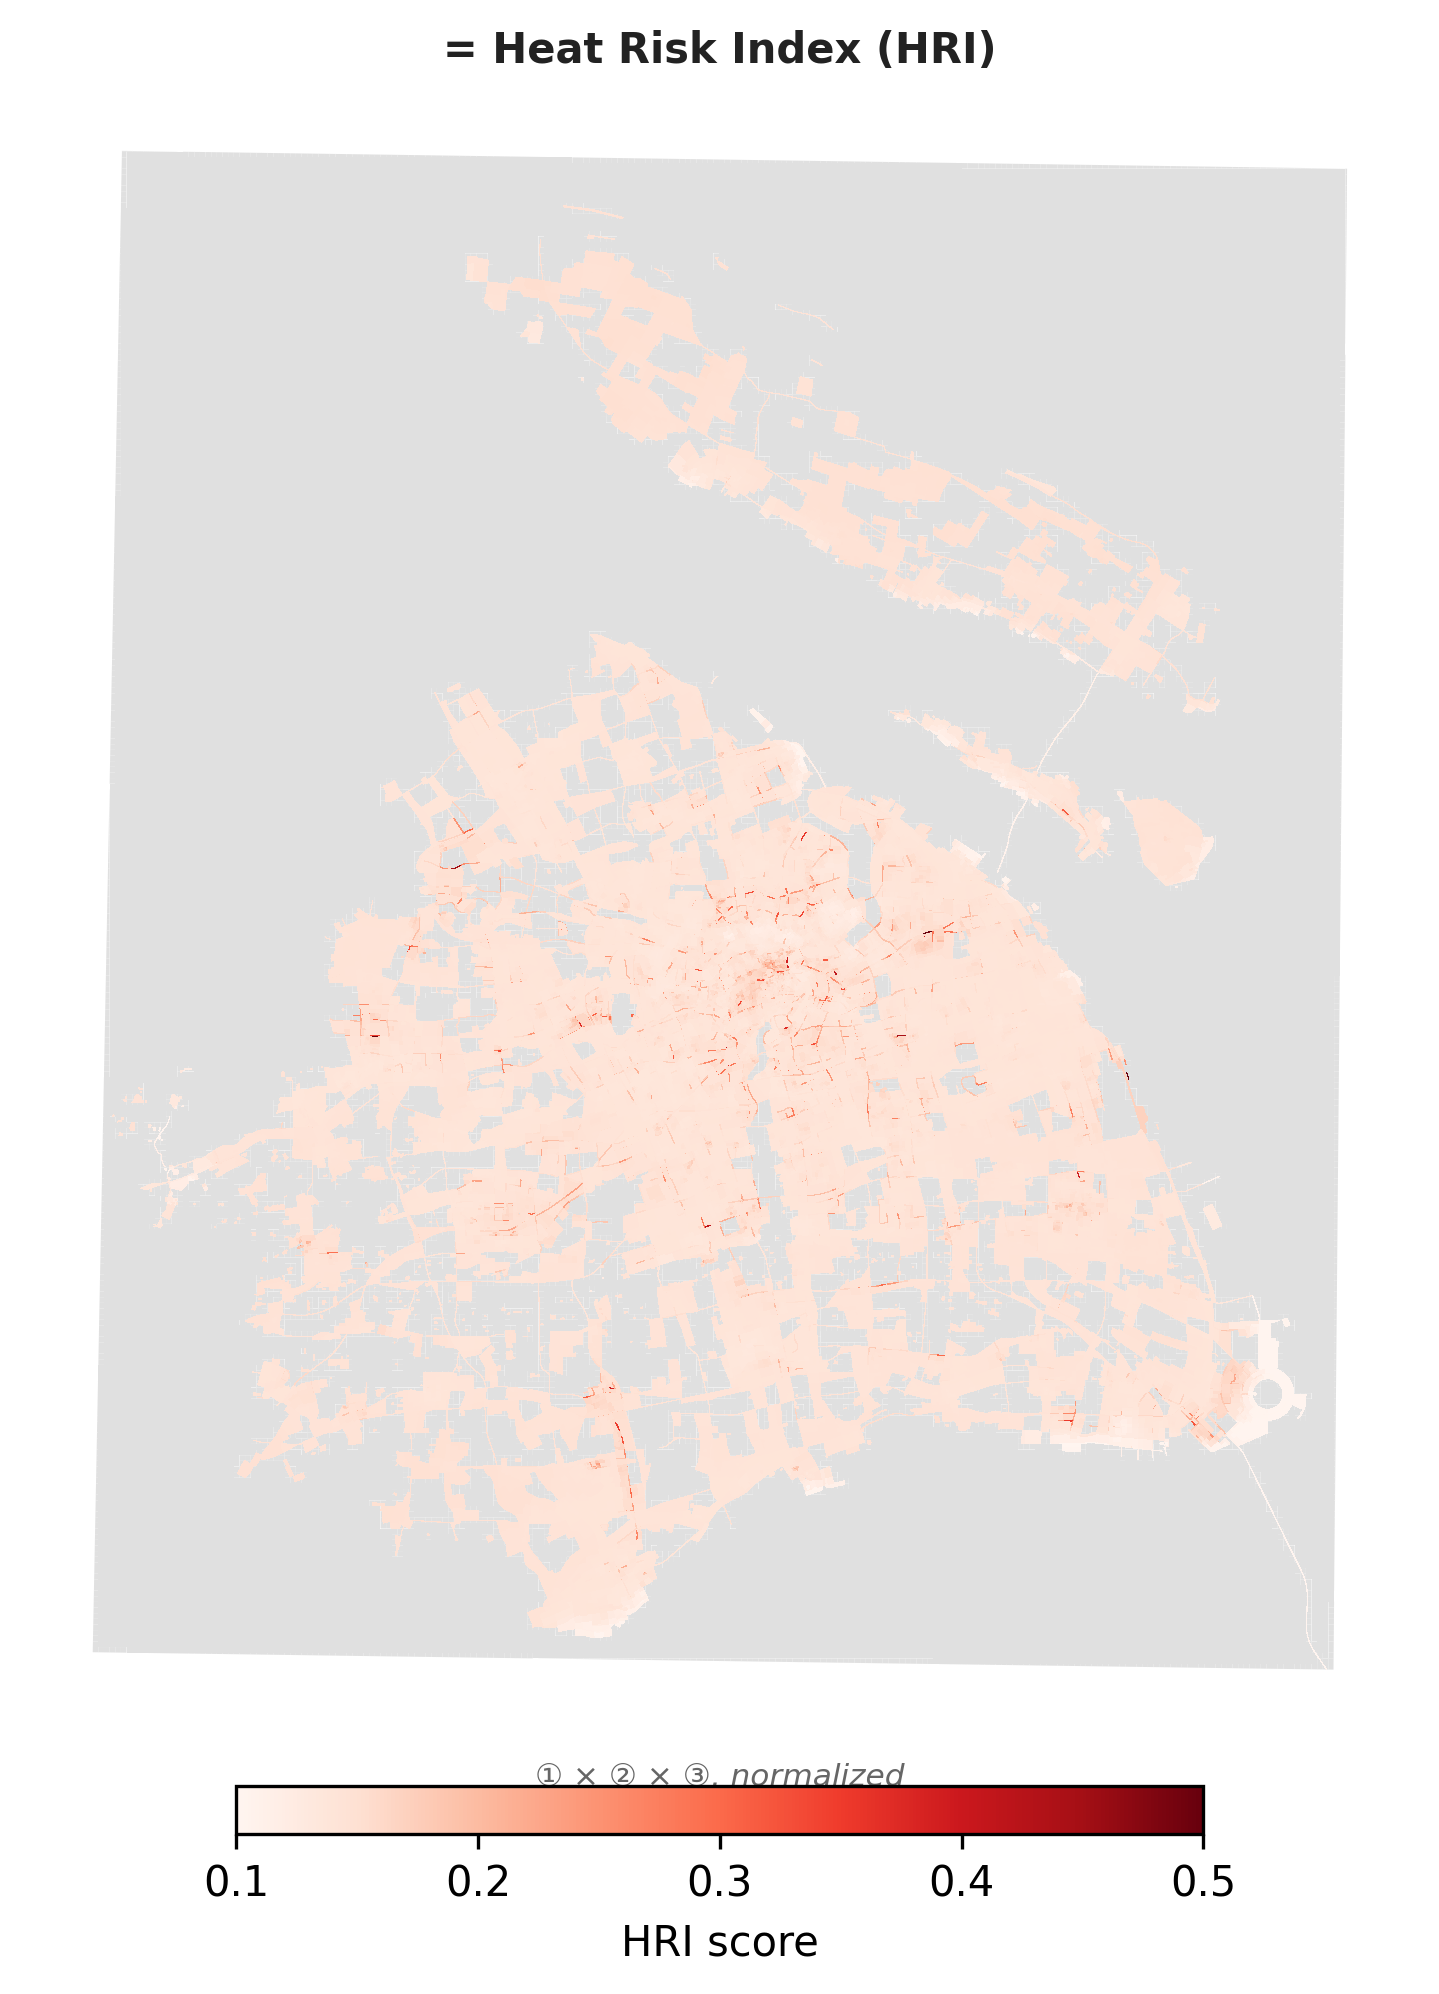
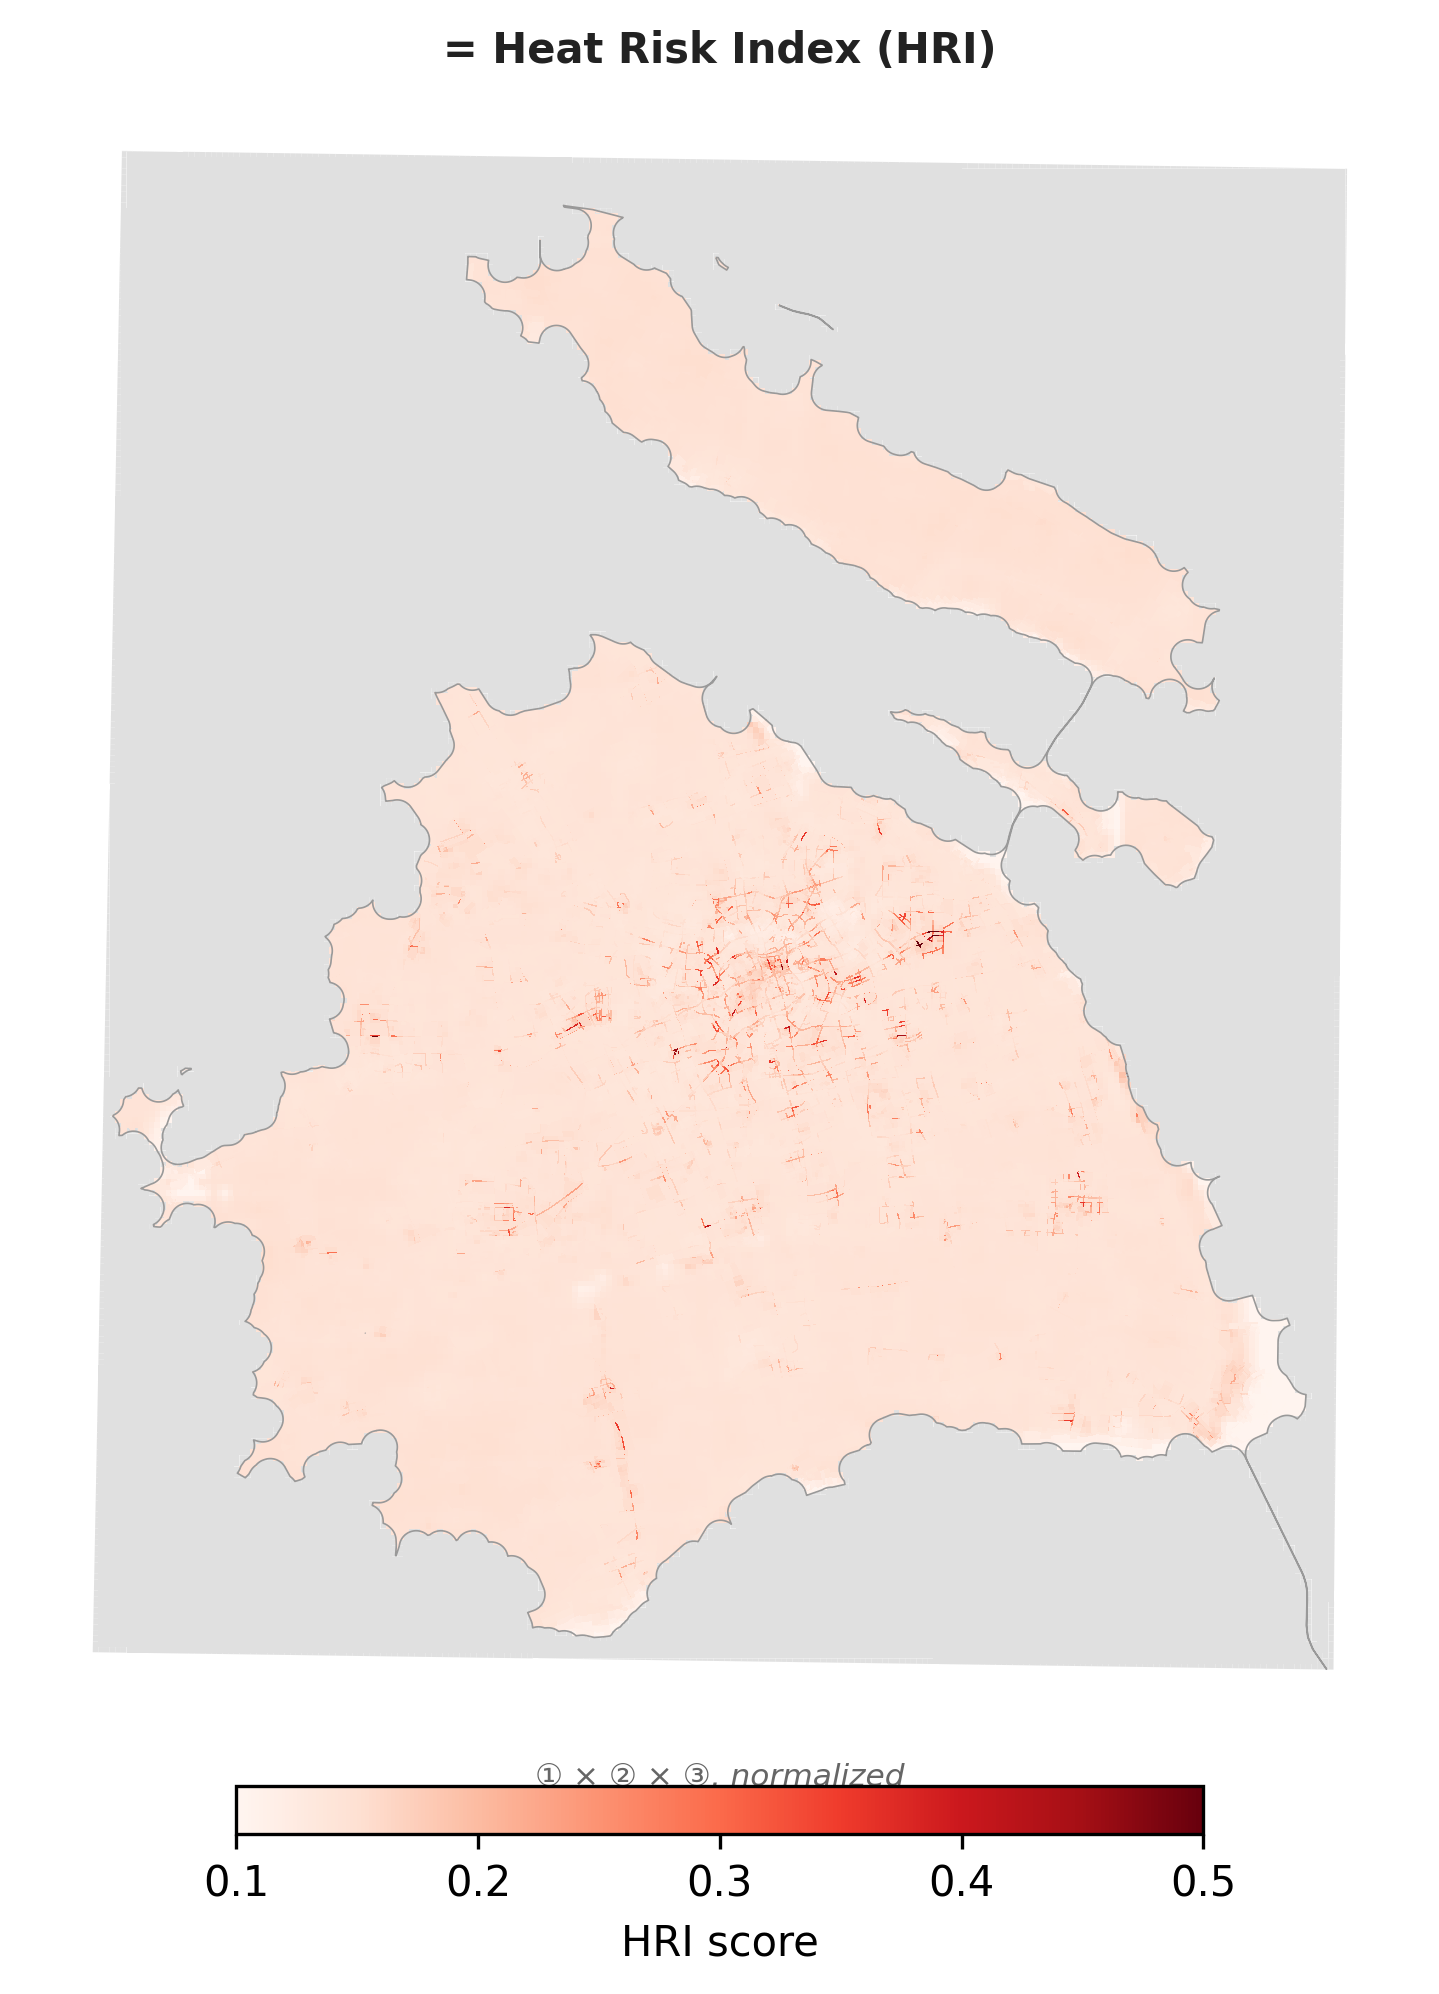
WIP: full land coverage for ALL process maps (silhouette fill on every panel)

diff --git a/scripts/10_infographic.py b/scripts/10_infographic.py
@@ -166,25 +166,30 @@ def resolve_vmax(gdf, column, vmax_spec):
 
 def render_map(ax, gdf, gdf_all, key, legend=True):
     col, cmap, vmin, vmax_spec, title, subtitle, leg_label = PANEL_SPECS[key]
-    draw_boundary = False
+
+    # Full coverage on every panel: colour EVERY block (road + grid) whose
+    # representative point falls inside the land silhouette, so the land
+    # area has no gray holes; the sea keeps the gray frame.
+    sil = land_silhouette(gdf_all)
+    if "mask" not in _SILHOUETTE_CACHE:
+        _SILHOUETTE_CACHE["mask"] = gdf_all.representative_point().within(sil)
+    plot_gdf = gdf_all.loc[_SILHOUETTE_CACHE["mask"]].copy()
+    if col == "log_green":
+        plot_gdf["log_green"] = np.log1p(plot_gdf["green_area_m2"])
+
     if vmin == "rank":
-        # Full-coverage variant: colour EVERY block (road + grid) whose
-        # representative point falls inside the land silhouette, so the
-        # land area has no gray holes; the sea keeps the gray frame.
-        draw_boundary = True
-        sil = land_silhouette(gdf_all)
-        inside = gdf_all.representative_point().within(sil)
-        gdf = gdf_all.loc[inside, [col, "geometry"]].copy()
-        gdf["_rank"] = gdf[col].rank(pct=True) * 100
+        plot_gdf["_rank"] = plot_gdf[col].rank(pct=True) * 100
         col = "_rank"
         vmin, vmax = 0.0, 100.0
     else:
+        # Scale still anchored on the road blocks so panel scales match
+        # the earlier versions; grid blocks just extend the coverage.
         vmax = resolve_vmax(gdf, col, vmax_spec)
         if vmin == "sym":
             vmin = -vmax
 
     gdf_all.plot(ax=ax, color="#E0E0E0", edgecolor="none", linewidth=0)
-    gdf.plot(
+    plot_gdf.plot(
         column=col, ax=ax, cmap=cmap,
         vmin=vmin, vmax=vmax,
         linewidth=0, antialiased=False,
@@ -196,9 +201,8 @@ def render_map(ax, gdf, gdf_all, key, legend=True):
             "label": leg_label,
         } if legend else {},
     )
-    if draw_boundary:
-        gpd.GeoSeries([land_silhouette(gdf_all)], crs=gdf_all.crs).boundary.plot(
-            ax=ax, color="#999999", linewidth=0.4)
+    gpd.GeoSeries([sil], crs=gdf_all.crs).boundary.plot(
+        ax=ax, color="#999999", linewidth=0.4)
     ax.set_axis_off()
     ax.set_title(title, fontsize=10, fontweight="bold",
                  color=C["dark"], pad=3, loc="center")
